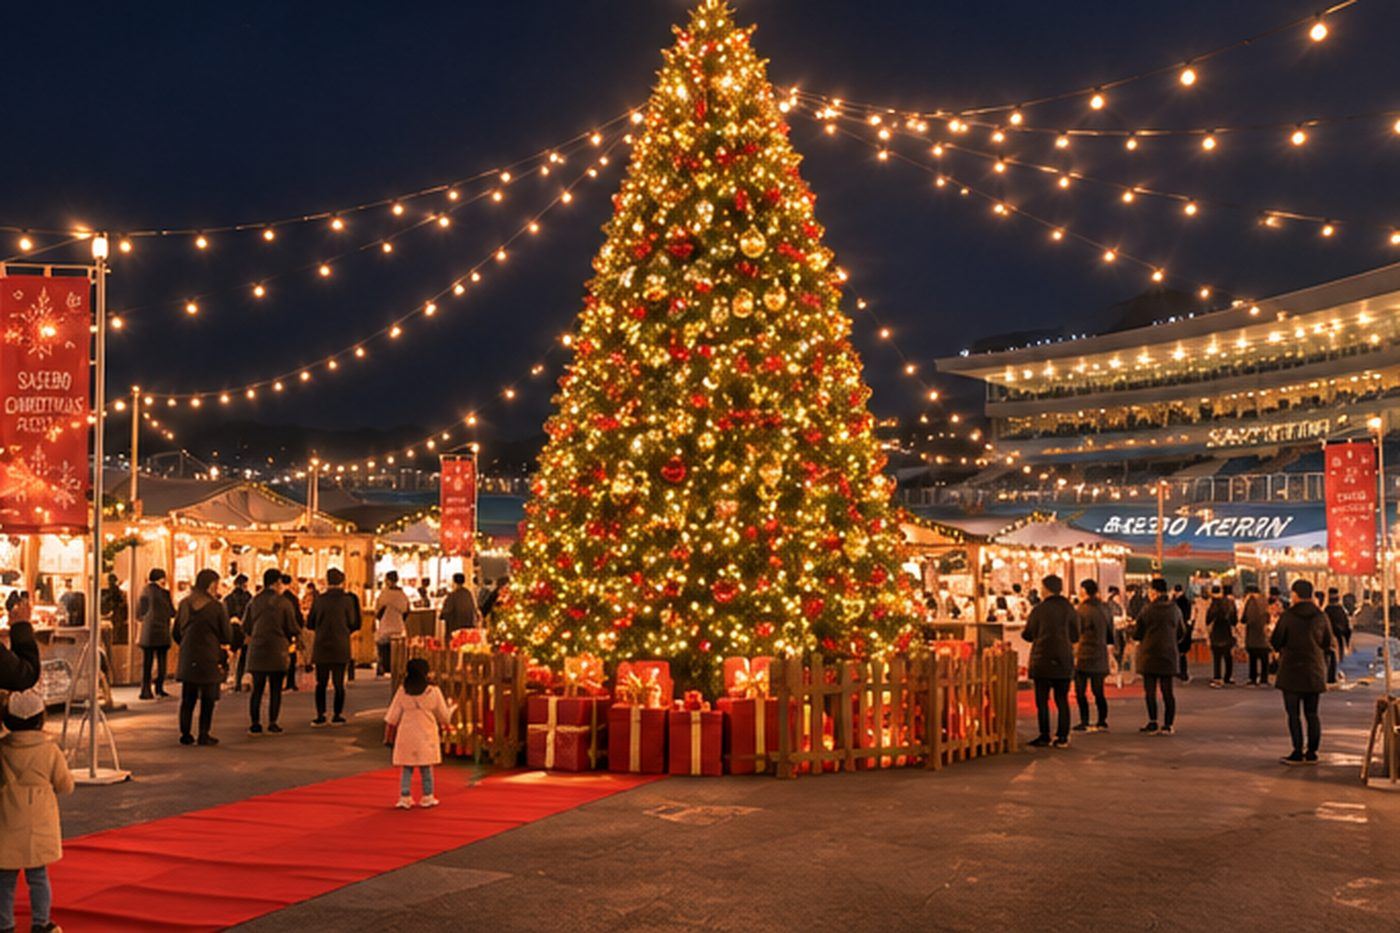
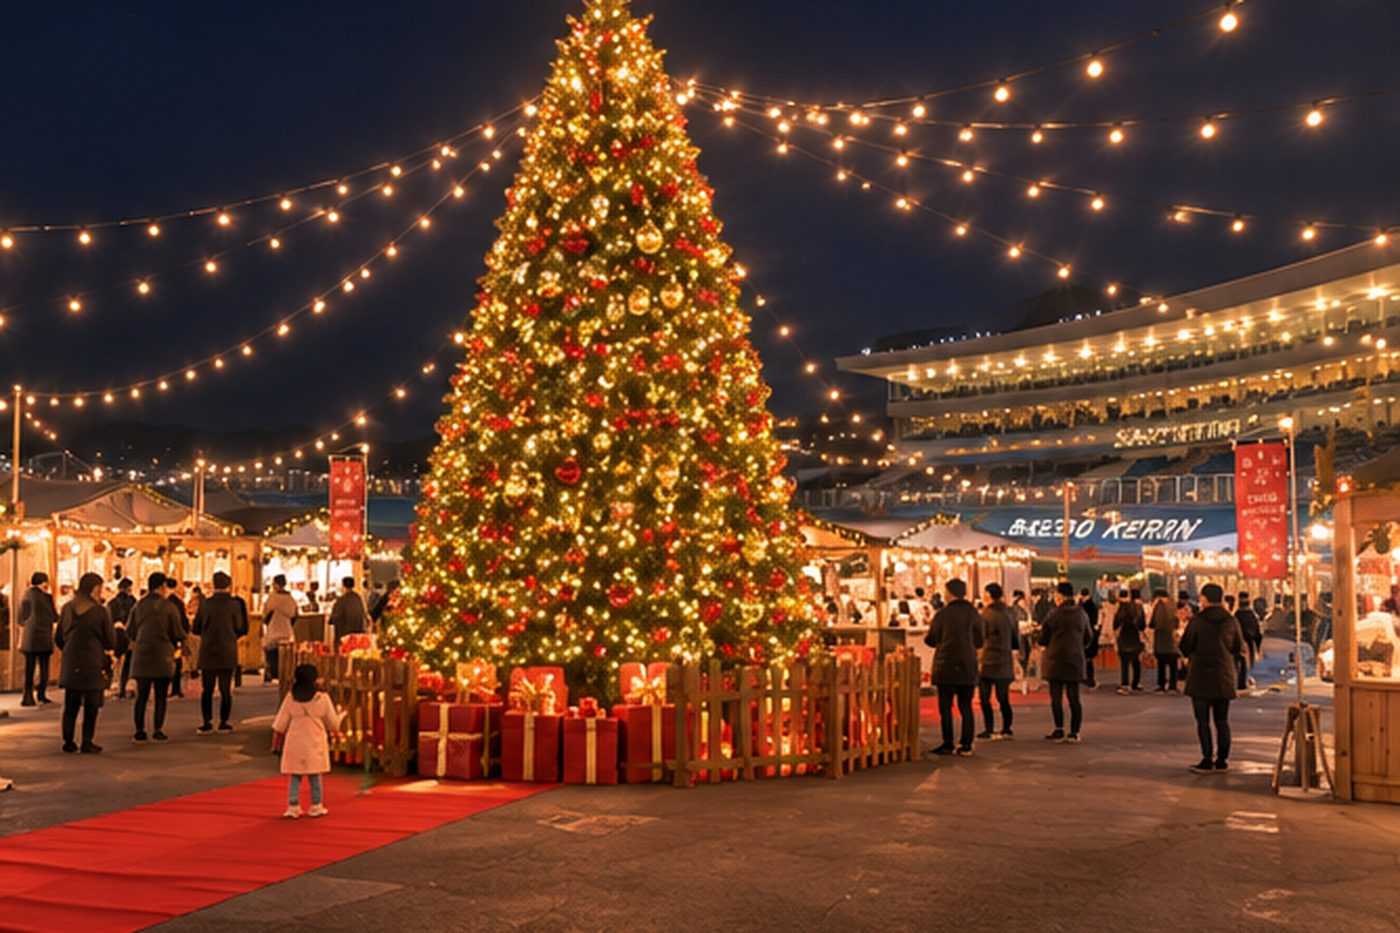
ヒーロー素材から旧名称を外す(静止画は解決・動画は残る)
主役の画像に旧名称のゲート看板が大きく写っていた。見出しは
SASEBO LIGHTS FESTIVAL 2026 なのに、その真下の写真が
SASEBO CHRISTMAS MARKET を名乗っている状態で、対外配布できなかった。

元画像を作り直さず、切り出し位置で外した。看板は左下に固まっていて、
右側には実在の SASEBO KEIRIN のバンク表示・ツリー・キッチンカー・花火が
そろっているため、左を落とすだけで成立する。生成し直すより確実で、
文字を書かせたときの綴り崩れも起きない。

- prepare_media.py: B からの切り出しをすべて x>=460 にした
  (看板の文字が x 60-430、アーチの柱が x 500 近くまで伸びる)
  hero / hero-mobile / og-image / about が対象
- vendor-03 はゲート看板そのものを切り出していたので、中央の屋台に変更
- vendor-02 も看板に掛かっていたので、看板より上へ移動
- market と light には旧名の幟が写っていた。生成された文字なので綴りも
  崩れており(SASEBO CRATOMUS MARKET)、公式素材としては二重に困る。
  4分割の元画像から、幟を外した範囲を使うようにした
- A(バンク越しの花火)に旧名は無いので、そちらは変更なし

動画は shutil で写すだけなので看板が残る。黙って通すと直したつもりで
旧名を流すことになるため、実行時に必ず警告を出すようにした。

README / 画像リクエスト / img/README / 提案資料10.1 も、
「静止画は解決・残るのは動画だけ」に書き換えた。

生成後の全画像を目視で確認。旧名の看板と幟はどこにも残っていない。

diff --git a/assets/img/README.md b/assets/img/README.md
@@ -1,7 +1,14 @@
 # 画像の差し替えガイド
 
-> ★重要：現在のヒーロー動画・写真には、旧名称「SASEBO CHRISTMAS MARKET 2026」のゲート看板が写っています。
-> 名称が SASEBO LIGHTS FESTIVAL 2026 に変わったため、可能であれば新名称の素材に差し替えてください。
+> **写真は対処済みです。残っているのは動画（`assets/video/hero.mp4`）だけです。**
+>
+> 元画像には旧名称「SASEBO CHRISTMAS MARKET 2026」のゲート看板と幟が
+> 写っています。静止画は `tools/prepare_media.py` の切り出しでその範囲を
+> 外してあるので、現在の `photo/*.jpg` に旧名は写っていません。
+> 切り出し位置を変えるときは、看板と幟を入れないこと（同ファイルのコメント参照）。
+>
+> 動画は写すだけなので看板が残ります。差し替えるか、
+> `index.html` の `<video>` を外して静止画だけにしてください。
 
 写真は `site/assets/img/photo/` に、**同じファイル名で上書き**するだけで差し替わります。
 HTMLやCSSを編集する必要はありません。
